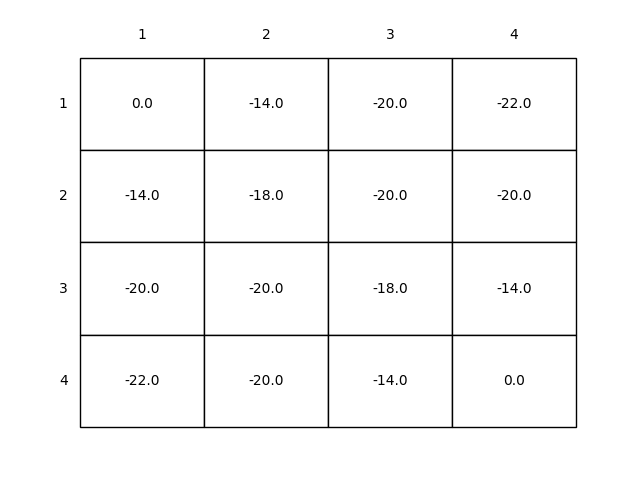
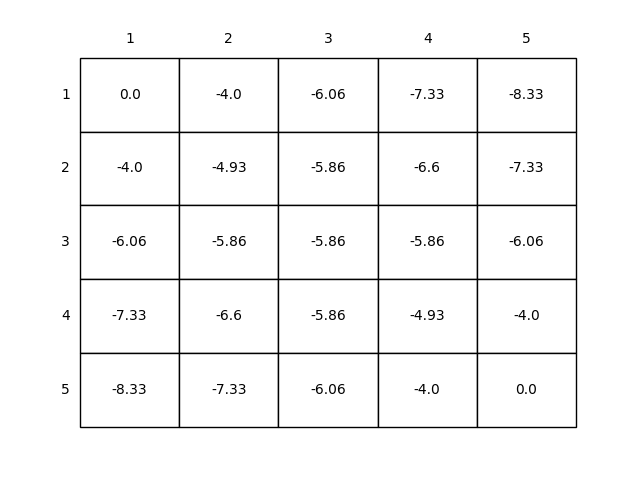
Updated Lecture 2 - Finite MDPs.ipynb
changed parameters of gridworld

diff --git a/Code/Sutton_Barto/chapter04/grid_world.py b/Code/Sutton_Barto/chapter04/grid_world.py
@@ -13,7 +13,7 @@ from matplotlib.table import Table
 
 matplotlib.use('Agg')
 
-WORLD_SIZE = 4
+WORLD_SIZE = 5
 # left, up, right, down
 ACTIONS = [np.array([0, -1]),
            np.array([-1, 0]),
@@ -36,8 +36,9 @@ def step(state, action):
 
     if x < 0 or x >= WORLD_SIZE or y < 0 or y >= WORLD_SIZE:
         next_state = state
-
-    reward = -1
+        reward = -1
+    else:
+        reward = 0
     return next_state, reward
 
 
@@ -93,10 +94,10 @@ def compute_state_value(in_place=True, discount=1.0):
 def figure_4_1():
     # While the author suggests using in-place iterative policy evaluation,
     # Figure 4.1 actually uses out-of-place version.
-    _, asycn_iteration = compute_state_value(in_place=True)
+    _, async_iteration = compute_state_value(in_place=True)
     values, sync_iteration = compute_state_value(in_place=False)
     draw_image(np.round(values, decimals=2))
-    print('In-place: {} iterations'.format(asycn_iteration))
+    print('In-place: {} iterations'.format(async_iteration))
     print('Synchronous: {} iterations'.format(sync_iteration))
 
     plt.savefig('../images/figure_4_1.png')
